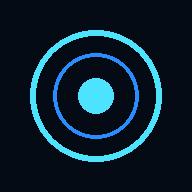
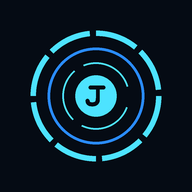
Add files via upload

Changed region(s): [[0.2188, 0.2188, 0.7812, 0.7812], [0.1562, 0.1562, 0.8438, 0.8438], [0.375, 0.375, 0.625, 0.625]]

diff --git a/index.html b/index.html
@@ -44,6 +44,16 @@ button:focus-visible,input:focus-visible{outline:2px solid var(--cy);outline-off
 .av{width:40px;height:40px;border-radius:50%;background:#0d2a44;border:1px solid var(--bl);display:grid;place-items:center;color:var(--cy);font-weight:600}
 .ct .i{flex:1;min-width:0}.ct .i b{display:block;overflow-wrap:anywhere}.ct .i span{color:var(--dim);font-size:14px}
 .vac{text-align:center;padding:56px 16px;color:var(--dim)}.vac p{margin-bottom:16px;font-size:18px}
+#intro{position:fixed;inset:0;z-index:100;background:var(--bg);display:flex;flex-direction:column;align-items:center;justify-content:center;transition:opacity .5s}
+#intro.out{opacity:0;pointer-events:none}
+#intro svg{width:200px;height:200px}
+#intro b{margin-top:14px;font-weight:600;font-size:20px;letter-spacing:.35em;padding-left:.35em;color:var(--cy)}
+#intro p{color:var(--dim);font-size:14px;margin-top:6px}
+#intro .d{display:flex;gap:8px;margin-top:14px}
+#intro .d i{width:6px;height:6px;border-radius:50%;background:var(--cy);animation:pt 1.2s infinite}
+#intro .d i:nth-child(2){animation-delay:.2s}#intro .d i:nth-child(3){animation-delay:.4s}
+@keyframes pt{0%,100%{opacity:.2}50%{opacity:1}}
+@media(prefers-reduced-motion:reduce){#intro .d i{animation:none;opacity:.6}}
 .b.live::after{content:"";display:inline-block;width:8px;height:1em;margin-left:3px;vertical-align:-2px;background:var(--cy);animation:bl 1s steps(2) infinite}
 @keyframes bl{50%{opacity:0}}
 @media(prefers-reduced-motion:reduce){.b.live::after{animation:none}}
@@ -61,6 +71,12 @@ dialog input:not([type=checkbox]){width:100%;background:var(--bg);color:var(--tx
 .row .w{grid-column:1/-1}
 #ok{font-size:14px;color:var(--cy);min-height:1.4em;margin-top:8px}
 </style></head><body>
+<div id="intro" role="status" aria-label="Iniciando Jhonny"><svg viewBox="-80 -80 160 160" aria-hidden="true"><g><animateTransform attributeName="transform" type="rotate" from="-90" to="270" dur="8s" repeatCount="indefinite"/><circle r="70" fill="none" stroke="#4de3ff" stroke-width="6" stroke-dasharray="48 7"/></g>
+<circle r="52" fill="none" stroke="#2a8cff" stroke-width="3"/>
+<g><animateTransform attributeName="transform" type="rotate" from="380" to="20" dur="5s" repeatCount="indefinite"/><circle r="36" fill="none" stroke="#4de3ff" stroke-width="2" stroke-dasharray="60 11.6"/></g>
+<circle r="22" fill="#4de3ff"><animate attributeName="r" values="22;24;22" dur="2s" repeatCount="indefinite"/></circle>
+<path d="M-6 -9H8M2 -9V3Q2 9 -4 9Q-9 9 -9 5" fill="none" stroke="#050b14" stroke-width="4" stroke-linecap="round" stroke-linejoin="round"/></svg><b>JHONNY</b><p>Iniciando sistemas</p><div class="d"><i></i><i></i><i></i></div></div>
+<script>(function(){var e=document.getElementById('intro');if(matchMedia('(prefers-reduced-motion:reduce)').matches)e.querySelectorAll('animate,animateTransform').forEach(function(a){a.remove()});function f(){e.classList.add('out');setTimeout(function(){e.remove()},500)}var t=setTimeout(f,2200);e.onclick=function(){clearTimeout(t);f()}})()</script>
 <header><div><div class="tt"><h1>JHONNY</h1><button id="mn" class="ic" aria-label="Menú" aria-haspopup="true"></button></div><div id="st"><i></i><span>En línea</span></div></div><button id="cfg">Ajustes</button></header>
 <main id="log" aria-live="polite"></main>
 <div id="chips"></div>
@@ -218,7 +234,7 @@ const net=()=>{$('#st').classList.toggle('off',!navigator.onLine);$('#st span').
 addEventListener('online',net);addEventListener('offline',net);net();
 mem.historial.slice(-6).forEach(h=>add(h.role==='user'?'u':'b',h.content));
 say(mem.historial.length?'De vuelta, Eddy.':'Buenas, Eddy. Jhonny en línea.');
-if(!cfg.key)setTimeout(()=>{$('#hint').textContent='Para empezar, escribe tu clave de Groq. Se guarda solo en este teléfono.';$('#dlg').showModal()},300);
+if(!cfg.key)setTimeout(()=>{$('#hint').textContent='Para empezar, escribe tu clave de Groq. Se guarda solo en este teléfono.';$('#dlg').showModal()},2400);
 const DOTS='<svg width="20" height="20" viewBox="0 0 20 20" aria-hidden="true"><circle cx="10" cy="3" r="2"/><circle cx="10" cy="10" r="2"/><circle cx="10" cy="17" r="2"/></svg>';
 $('#mn').innerHTML=DOTS;
 let scr=null,sel=-1,lpT;
